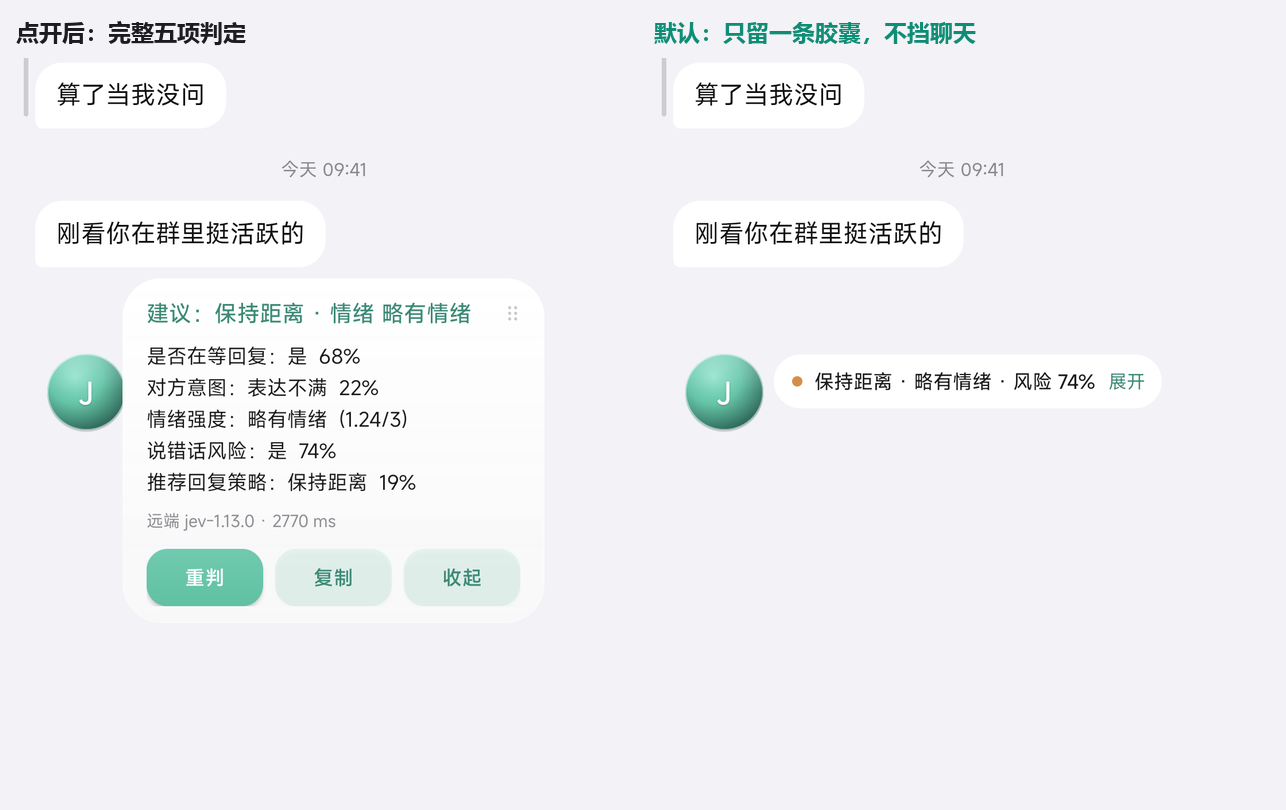
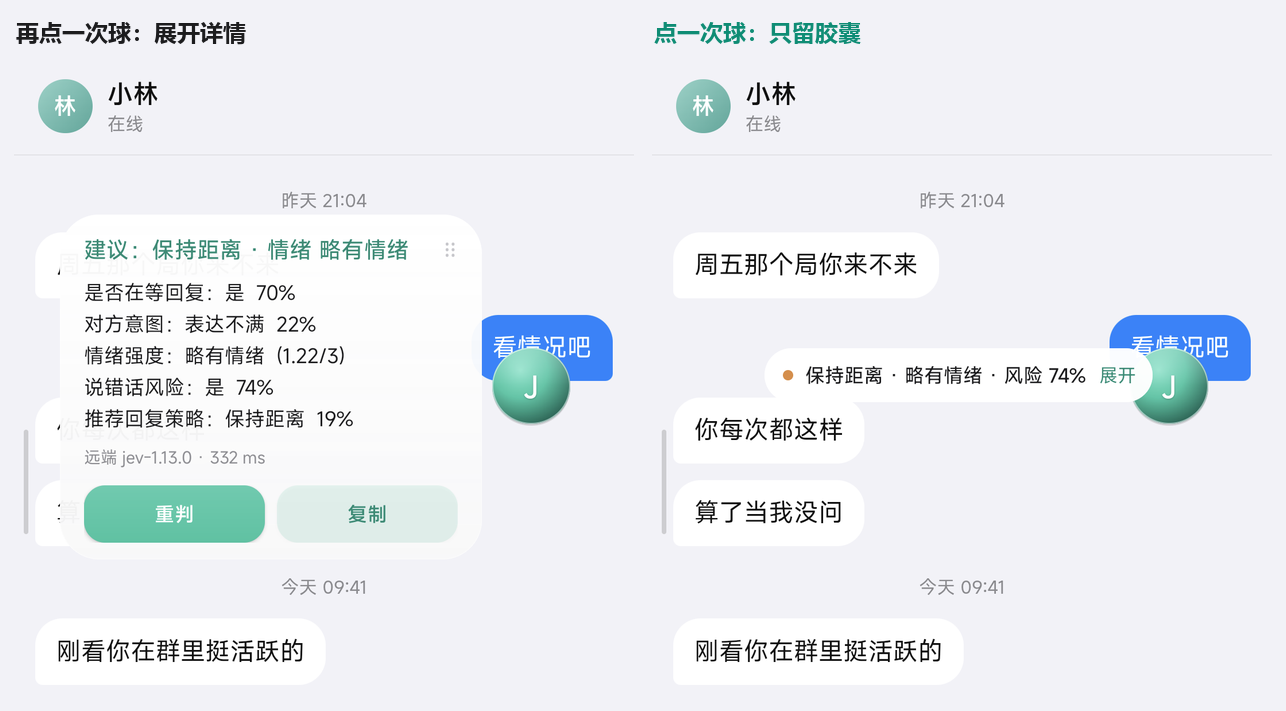
Make the ball the single toggle, drop the collapse button
Expanding and collapsing are now the ball's job, steered by an explicit display
state:

  none --tap--> judging (card with progress) --tap--> pill --tap--> card --tap--> none

So the card no longer needs a collapse button; it keeps only retry and copy.

Verified on device by tapping through the cycle and reading back window sizes:
136x136 (ball only) -> 676x94 (pill) -> 735x601 (card) -> 136x136.

diff --git a/app/src/ai/jev/assist/OverlayService.java b/app/src/ai/jev/assist/OverlayService.java
@@ -83,6 +83,13 @@ public class OverlayService extends Service {
     /** 请求序号，避免旧请求的结果盖掉新请求的。 */
     private int requestSeq = 0;
 
+    // 当前屏幕上摆着什么。悬浮球是唯一的总开关，按这个状态循环推进：
+    // 无 -> 判定（卡片形态，带进度动画）-> 胶囊 -> 展开成卡片 -> 无 …
+    private static final int STATE_NONE = 0;
+    private static final int STATE_CARD = 1;
+    private static final int STATE_PILL = 2;
+    private int displayState = STATE_NONE;
+
     @Override
     public void onCreate() {
         super.onCreate();
@@ -321,16 +328,35 @@ public class OverlayService extends Service {
 
     // ---- 判定 ----
 
+    /**
+     * 悬浮球是唯一的总开关。每次点击把状态推进一格：
+     *
+     * <pre>
+     *   无 ──点──> 判定中（卡片带进度动画）
+     *   判定中 ──点──> 直接收掉
+     *   胶囊 ──点──> 展开成完整卡片
+     *   卡片 ──点──> 全部收起，回到无
+     * </pre>
+     *
+     * <p>所以卡片上不再需要「收起」按钮，展开和收起都由球负责。
+     */
     private void onBallTap() {
-        // 有结果（胶囊或卡片）就全部收掉，再点一次重新判定。
-        // 因为不能开 FLAG_WATCH_OUTSIDE_TOUCH（会把窗口表面撑到全屏），
-        // 显示状态就统一由悬浮球切换，和 iOS 的辅助触控一个逻辑。
-        if (cardView != null || pillView != null) {
-            dismissed = true;
-            removeCard();
-            removePill();
-            return;
+        switch (displayState) {
+            case STATE_PILL:
+                // 已有结果，展开详情
+                removePill();
+                showCard();
+                return;
+            case STATE_CARD:
+                // 卡片形态（结果或错误）点一下就全收掉
+                dismissed = true;
+                removeCard();
+                removePill();
+                return;
+            default:
+                break;
         }
+
         dismissed = false;
 
         String transcript = ChatAccessibilityService.cachedTranscript();
@@ -355,6 +381,9 @@ public class OverlayService extends Service {
         startProgress();
         ask(transcript);
     }
+
+    /** 上一次判定是否已经出过结果——决定再点球是收掉还是重新判。 */
+    private boolean cardDataFromLastRun = false;
 
     private void ask(final String transcript) {
         final boolean local = Prefs.isLocal(this);
@@ -470,6 +499,7 @@ public class OverlayService extends Service {
         pillView.setOnClickListener(new View.OnClickListener() {
             @Override
             public void onClick(View v) {
+                // 点胶囊等同于再点一次悬浮球，直接进详情
                 removePill();
                 showCard();
             }
@@ -481,6 +511,7 @@ public class OverlayService extends Service {
             pillView = null;
             return;
         }
+        displayState = STATE_PILL;
 
         // 加进去之后才知道它多宽，这时才能把它摆在球旁边
         pillView.measure(
@@ -522,6 +553,14 @@ public class OverlayService extends Service {
             }
             pillView = null;
         }
+        syncDisplayState();
+    }
+
+    /** 两种视图都没了才算回到「无」——showCard 内部会先 removePill 再挂新视图。 */
+    private void syncDisplayState() {
+        if (cardView == null && pillView == null) {
+            displayState = STATE_NONE;
+        }
     }
 
     // ---- 卡片：点开胶囊才出现的详情 ----
@@ -555,18 +594,6 @@ public class OverlayService extends Service {
         View header = cardView.findViewById(R.id.card_header);
         header.setOnTouchListener(new CardDragListener(cardWidth));
 
-        cardView.findViewById(R.id.card_close).setOnClickListener(new View.OnClickListener() {
-            @Override
-            public void onClick(View v) {
-                // 有结果就退回胶囊，纯错误信息才整个关掉
-                if (retryable) {
-                    removeCard();
-                    showPill();
-                } else {
-                    removeCard();
-                }
-            }
-        });
         cardView.findViewById(R.id.card_copy).setOnClickListener(new View.OnClickListener() {
             @Override
             public void onClick(View v) {
@@ -588,6 +615,7 @@ public class OverlayService extends Service {
             cardView = null;
             return;
         }
+        displayState = STATE_CARD;
         // 加进去之后才量得出它多高，这时才能把它摆到球旁边
         cardView.measure(
                 View.MeasureSpec.makeMeasureSpec(cardWidth, View.MeasureSpec.EXACTLY),
@@ -745,5 +773,6 @@ public class OverlayService extends Service {
             }
             cardView = null;
         }
+        syncDisplayState();
     }
 }

diff --git a/README.md b/README.md
@@ -104,9 +104,13 @@ noul / choice / score 三种答案 → 悬浮卡片
 
 然后切到聊天窗口停一下，点悬浮球，卡片给出判定。
 
-交互闭环是三个层次：**悬浮球 = 开/关，胶囊 = 摘要，卡片 = 详情**。
+交互就一个开关：**悬浮球**。每次点它把状态推进一格——
 
-点球出结果，默认收成贴在球旁边的一条胶囊，几乎不占聊天区。点胶囊展开完整判定；卡片上的「收起」退回胶囊，再点球则全部关掉。判定在跑的时候标题会动，因为本地模型首次加载要几秒。
+```
+无 ──点──> 判定中 ──> 胶囊 ──点──> 展开详情 ──点──> 无
+```
+
+点一次球出结果，默认收成贴在球旁边的一条胶囊，几乎不占聊天区；再点一次展开完整判定；再点一次全部收起。卡片上因此没有「收起」按钮，展开和收起都归球管。判定在跑的时候标题会动，因为本地模型首次加载要几秒。
 
 **胶囊和卡片都挂在球上。** 拖动悬浮球时它们跟着走，球吸附到屏幕边缘时还会自动换到背向屏幕中心的那一侧，不会跑出屏幕。卡片可以单独拖到你喜欢的位置，记住的是**相对球的偏移**而不是绝对坐标——所以球以后挪到哪，卡片都按同样的相对关系跟过去。
 
